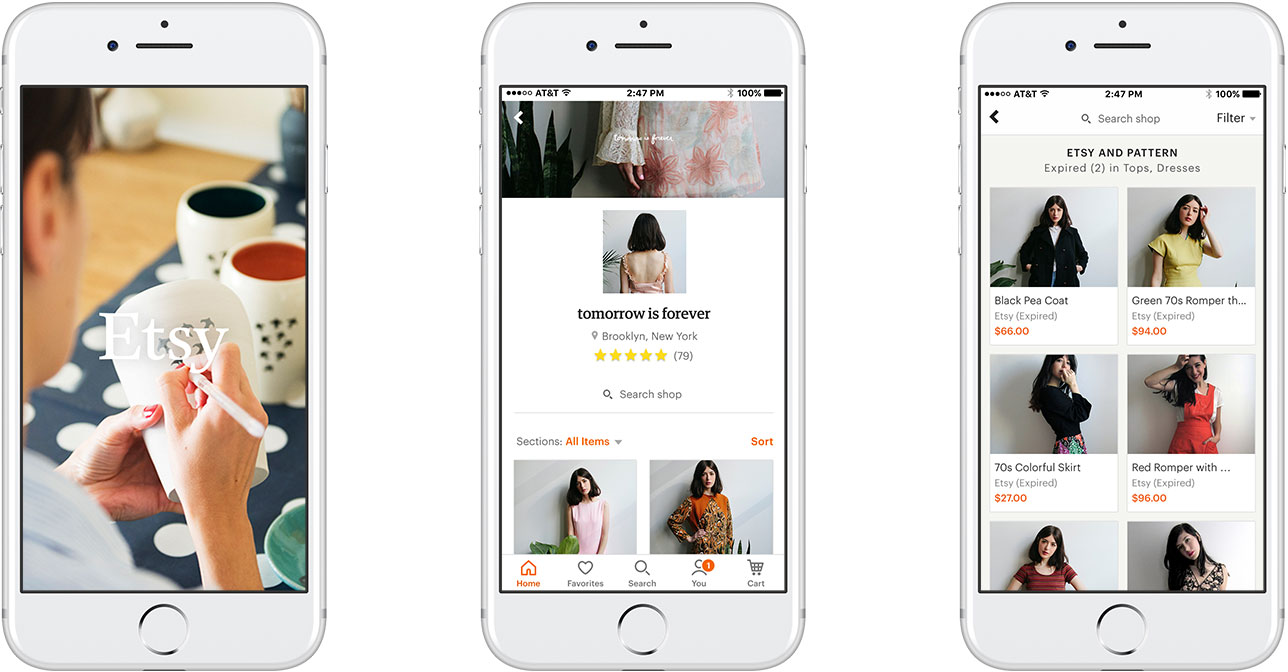
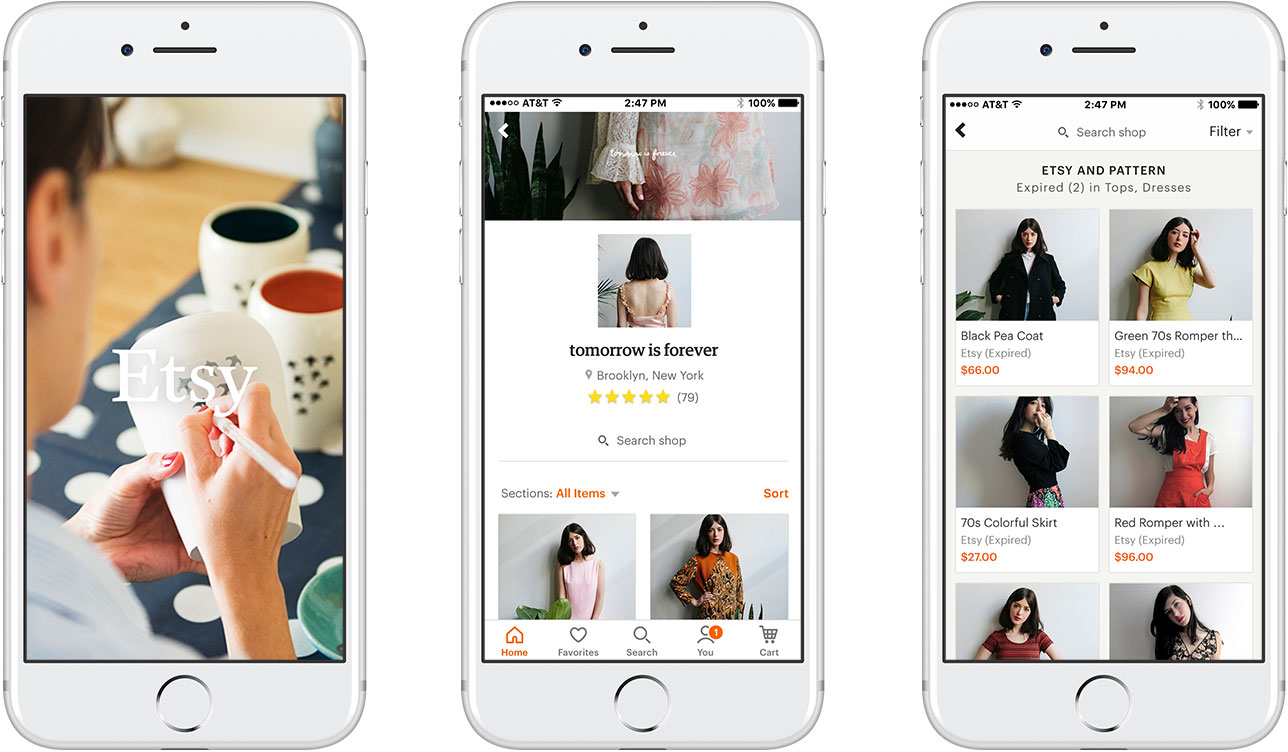
Added device images to screenshots.

diff --git a/app/assets/stylesheets/mimic.css.scss b/app/assets/stylesheets/mimic.css.scss
@@ -119,7 +119,7 @@ h2 {
   .outside_wrapper {
     width: 80%;
     margin: 96px auto;
-    max-width: 1200px;
+    max-width: 1288px;
   }
 
   .text_wrapper {
@@ -130,7 +130,7 @@ h2 {
 
   h1 {
     font-size: 2.8rem;
-    line-height: 3.6rem;
+    line-height: 3.4rem;
     margin-bottom: 32px;
   }
 
